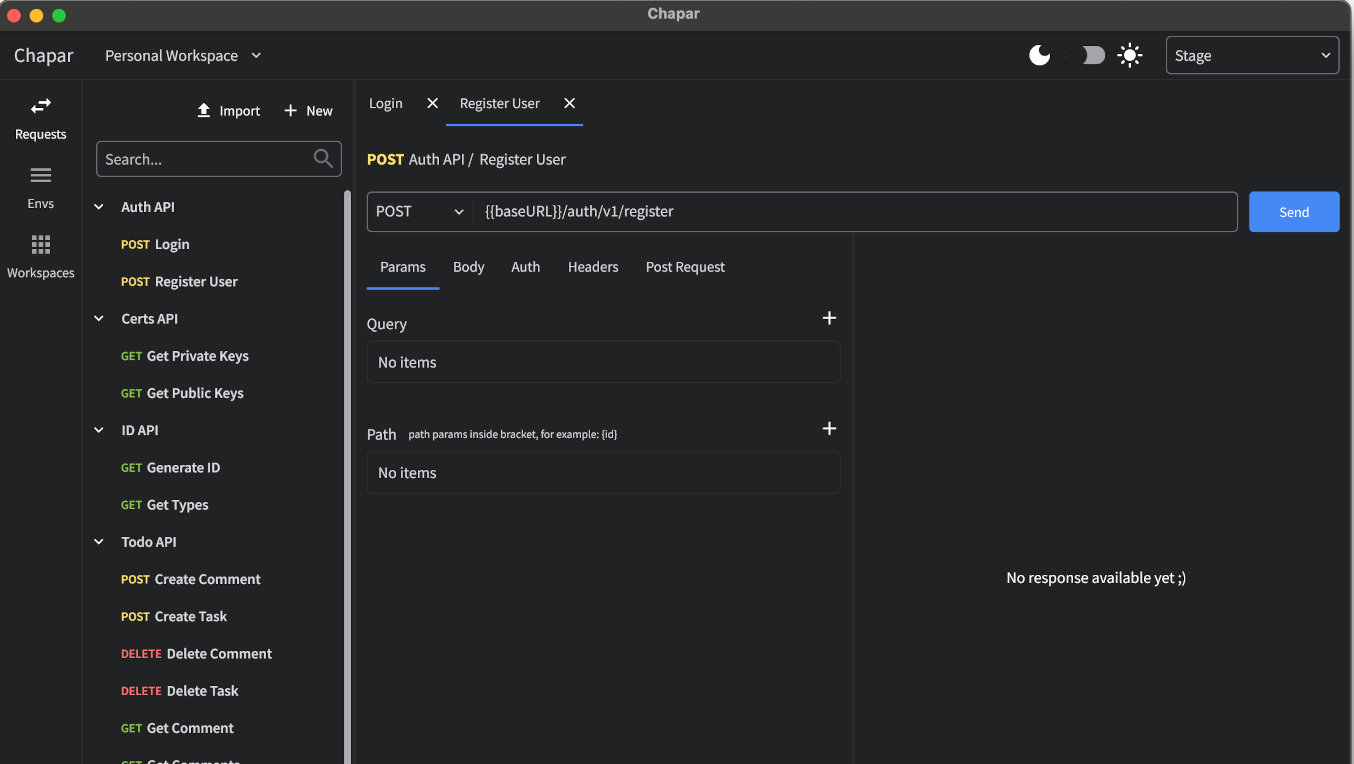
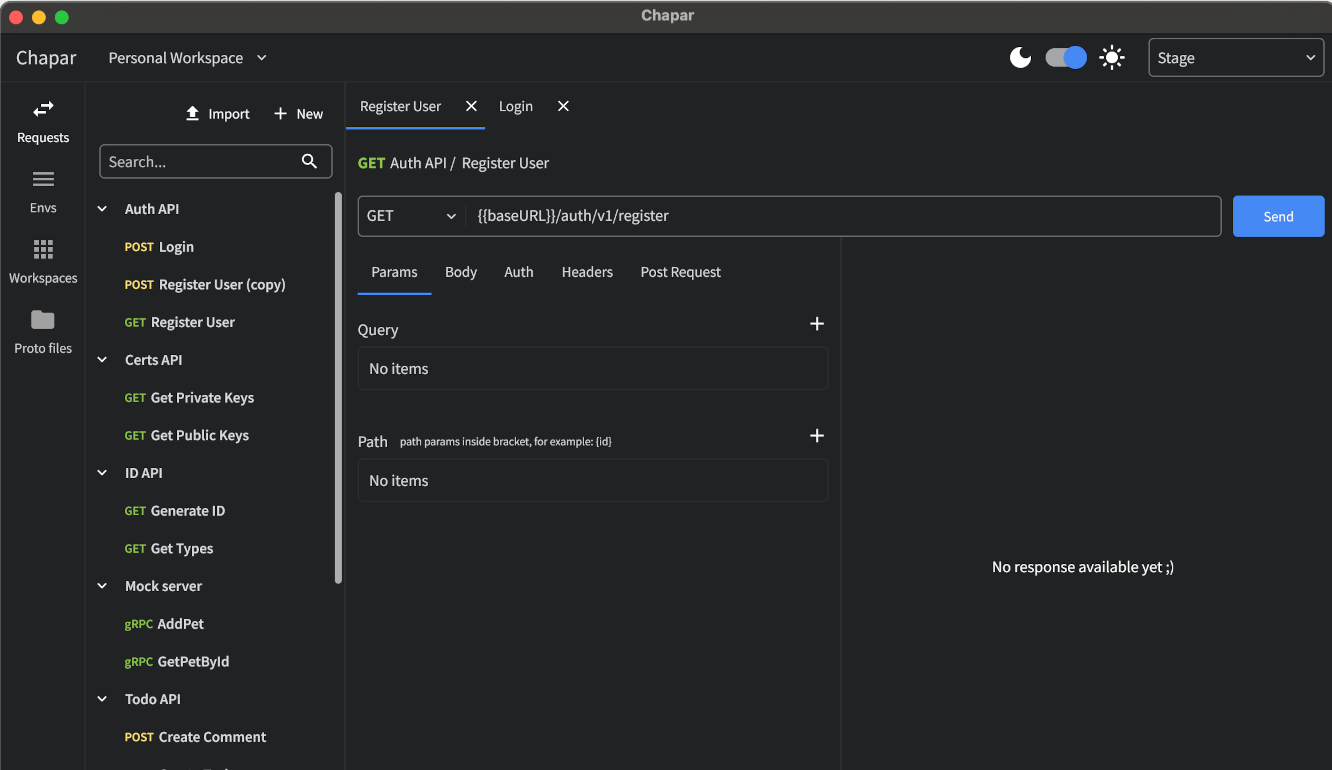
update screenshot

diff --git a/public/index.html b/public/index.html
@@ -263,7 +263,7 @@
                                 
                                     
                                         
-                                            <img src="/images/chapar_screenshot_huf86bd0223d0f689869bd62bcc4ecf5ac_123908_1354x764_resize_q85_h3_lanczos_3.webp" class="shadow-lg mx-auto d-block rounded-top-4" width="1354" height="764" alt="Chapar Screenshot">
+                                            <img src="/images/chapar_screenshot_hueafd5c9379045258f2f9916d6e48af3b_124306_1332x770_resize_q85_h3_lanczos_3.webp" class="shadow-lg mx-auto d-block rounded-top-4" width="1332" height="770" alt="Chapar Screenshot">
                                         
                                     
                                 
